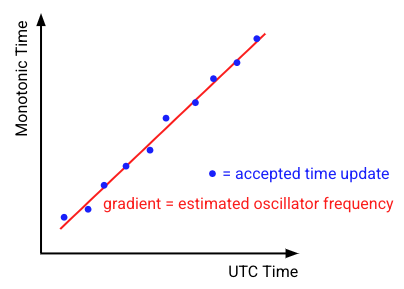
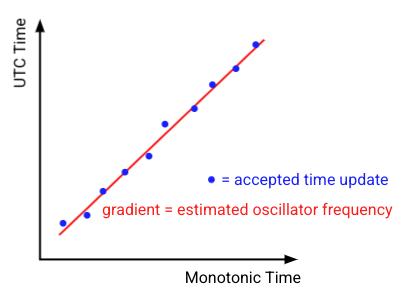
[time] Update frequency documentation.
The original algorithm was a bit inconsistent with the handling of
frequency, occasionally working with utc per monotonic and occasionally
working with monotonic per realtime. The implementationation is
consistent in only using utc per monotonic and this CL cleans up the
documentation to match and be more explicit about its use of frequency.

I'm also removing the note that frequency isn't implemented yet to
celebrate the fact that we finished it!

Bug: 56868
Commit-Queue: Jody Sankey <jsankey@google.com>

Changed region(s): [[0.1511, 0.0934, 0.9975, 0.8097], [0.0302, 0.0311, 0.7557, 0.9654], [0.5139, 0.5606, 0.9975, 0.654]]

diff --git a/src/sys/time/timekeeper/src/estimator/frequency.rs b/src/sys/time/timekeeper/src/estimator/frequency.rs
@@ -96,8 +96,8 @@ impl EstimationWindow {
         Ok(())
     }
 
-    /// Returns the average frequency over the time window, or an error if the window is not
-    /// eligible for some reason.
+    /// Returns the average frequency over the time window (as utc nanoseconds per monotonic
+    /// nanosecond), or an error if the window is not eligible for some reason.
     fn frequency(&self) -> Result<f64, GetFrequencyError> {
         if self.sample_count < FREQUENCY_ESTIMATION_MIN_SAMPLES {
             return Err(GetFrequencyError::InsufficientSamples);
@@ -166,8 +166,9 @@ impl FrequencyEstimator {
     }
 
     /// Update the estimate to include the supplied sample. Very occasionally this will lead to a
-    /// change in the estimated frequency, in which case the new frequency and the total number of
-    /// windows used in producing this new frequency are returned.
+    /// change in the estimated frequency, in which case the new frequency (as utc nanoseconds per
+    /// monotonic nanosecond) and the total number of windows used in producing this new frequency
+    /// are returned.
     pub fn update(
         &mut self,
         sample: &Sample,

diff --git a/src/sys/time/timekeeper/src/estimator/kalman_filter.rs b/src/sys/time/timekeeper/src/estimator/kalman_filter.rs
@@ -65,7 +65,7 @@ pub struct KalmanFilter {
     monotonic: zx::Time,
     /// Element 0 of the state vector, i.e. estimated utc after reference_utc, in nanoseconds.
     estimate_0: f64,
-    /// Element 1 of the state vector, i.e. estimated oscillator frequency as a factor.
+    /// Element 1 of the state vector, i.e. utc nanoseconds per monotonic nanosecond.
     estimate_1: f64,
     /// Element 0,0 of the covariance matrix, i.e. utc estimate covariance in nanoseconds squared.
     /// Note 0,0 is the only non-zero element in the matrix.

diff --git a/docs/concepts/time/utc/algorithms.md b/docs/concepts/time/utc/algorithms.md
@@ -103,7 +103,7 @@ Time samples are subjected to simple validity tests before being accepted:
    an indication of an error. Time samples where monotonic time is in the future
    or greater than MIN_SAMPLE_INTERVAL in the past will be rejected.
 4. When Timekeeper is configured with a gating source, any time sample from a
-   non-gating source where `|sample_utc - (gating_utc + 1/estimated_frequency *
+   non-gating source where `|sample_utc - (gating_utc + estimated_frequency *
    (sample_monotonic - gating_monotonic))| > GATING_THRESHOLD` is rejected. In
    this expression gating_utc and gating_monotonic refer to the UTC and
    monotonic times in the most recently accepted sample from the gating source.
@@ -169,10 +169,10 @@ following the most recent sample.
 This state estimation problem is commonly and efficiently solved using a [Kalman
 filter][1] in other domains. Timekeeper defines a simple two dimensional Kalman
 filter to maintain the UTC estimate where the two states are UTC time and
-oscillator frequency. Note that frequency is maintained external to the filter
-through the [frequency correction algorithm](#frequency_estimation); filter
-frequency is excluded from the Kalman filter’s measurement model and has a
-covariance of zero.
+frequency, expressed as utc nanoseconds per monotonic nanosecond. Note that
+frequency is maintained external to the filter through the [frequency correction
+algorithm](#frequency_estimation); filter frequency is excluded from the Kalman
+filter’s measurement model and has a covariance of zero.
 
 The parameters in the Kalman filter are presented in Figure 2.
 
@@ -226,6 +226,14 @@ manufacturing imperfections. Estimating the oscillator frequency to account for
 this error can increase the accuracy of the UTC clock or reduce the frequency at
 which clock corrections must be made.
 
+The algorithm works with frequency in the form it is applied by the Kalman
+filter, nanoseconds on the utc clock per nanosecond on the monotonic clock. Note
+this is the inverse of the oscillator's physical frequency (i.e. nanoseconds on
+the monotonic clock per nanosecond of real time). An oscillator that is running
+fast will produce more than one monotonic tick per nanosecond of real time and
+therefore the UTC clock should run at less than one utc nanosecond per monotonic
+nanosecond to compensate.
+
 Oscillator errors are bounded by specification to some small value (typically
 tens of parts per million) hence the UTC estimate algorithm above is stable and
 reliable even when a frequency estimate is unavailable; the frequency estimate
@@ -266,7 +274,7 @@ This is implemented using the following equation:
 
 ```
 period_frequency = {sum(utc * monotonic) - sum(utc)*sum(monotonic)/n}
-                   / {sum(utc^2) - sum(utc)^2/n}
+                   / {sum(monotonic^2) - sum(monotonic)^2/n}
 ```
 
 Where n is the number of accepted samples within the period. Note that
@@ -288,9 +296,6 @@ estimated_frequency = clamp(
 
 EWMA provides a simple way to blend data across multiple periods while retaining
 minimal state.
-
-*Note: As of Q4 2020 the frequency estimation algorithm has not yet been
-implemented.*
 
 ### How can clock error be bounded? {#error_bound}
 
